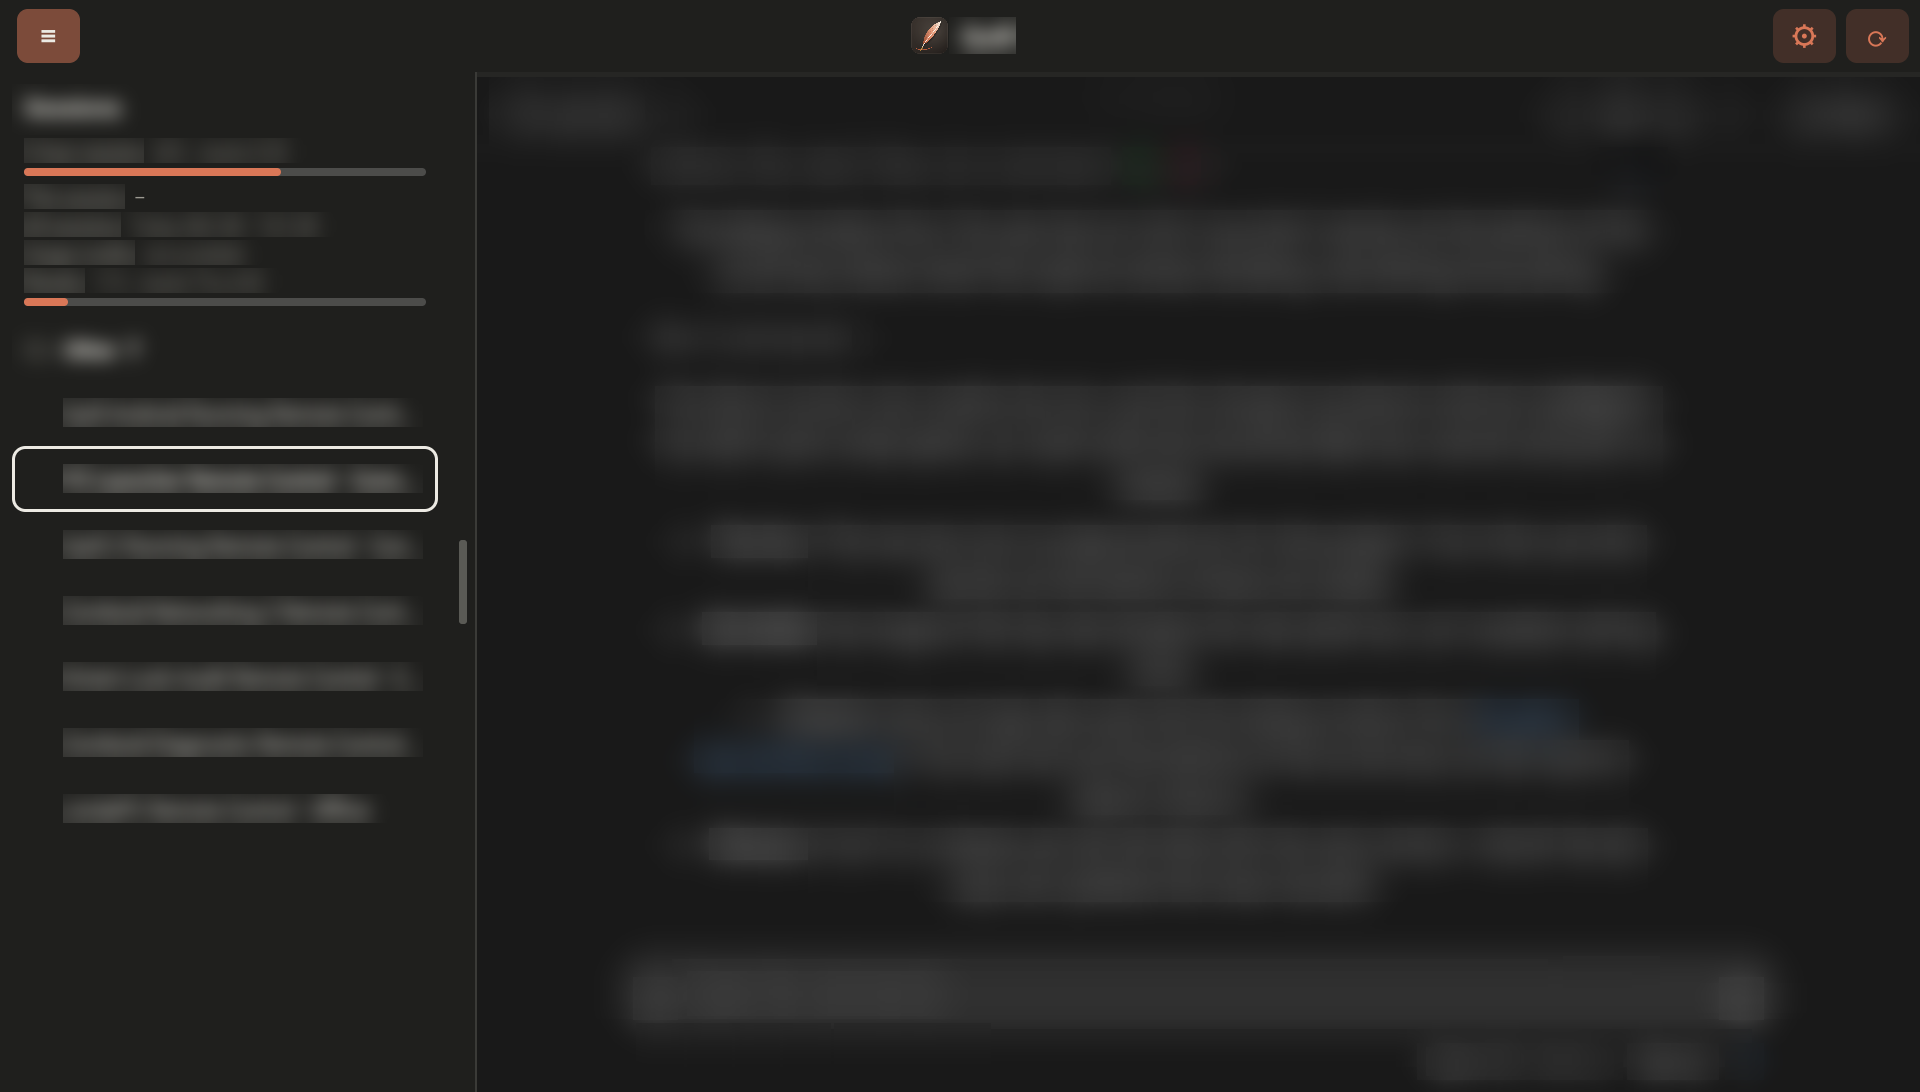
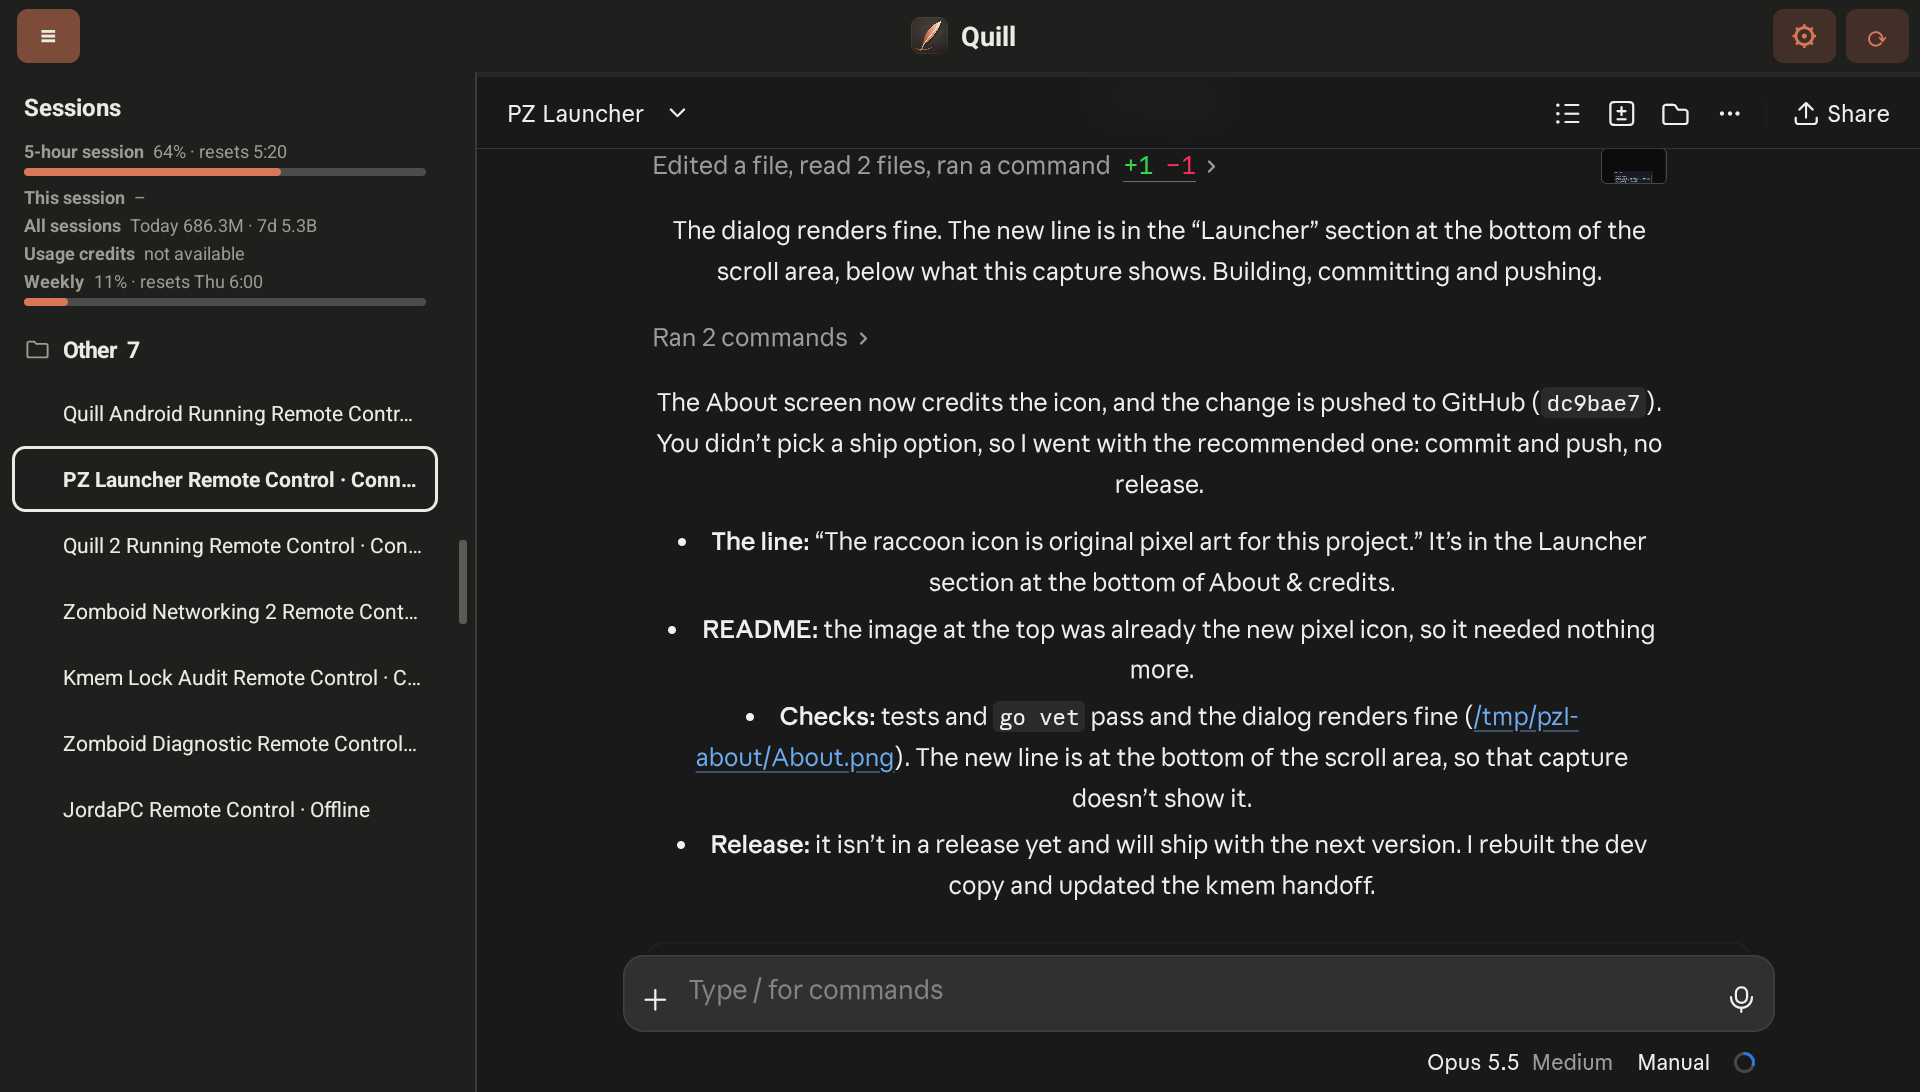
README: tablet screenshot without blur

diff --git a/README.md b/README.md
@@ -4,9 +4,9 @@ An Android companion to [Quill](https://github.com/katachinosekai/quill), the de
 
 Quill for Android lets you control the Claude Code sessions running in Quill on your computer from your phone. It uses Claude Code's own Remote Control: no server of its own, no API key, no extra login. Quill turns Remote Control on for its sessions. This app opens claude.ai/code, where those sessions appear, and gives it Quill's look and organisation.
 
-<p><img src="docs/tablet.png" alt="Quill Android on a tablet: session list with usage on the left, a chat on the right (text blurred)" width="100%"></p>
+<p><img src="docs/tablet.png" alt="Quill Android on a tablet: session list with usage on the left, a chat on the right" width="100%"></p>
 
-*Quill Android on a tablet, paired with Quill Desktop: the session list with usage on the left, the open session on the right. Text is blurred.*
+*Quill Android on a tablet, paired with Quill Desktop: the session list with usage on the left, the open session on the right.*
 
 ## Features
 - Usage at a glance like Quill's strip: 5-hour and weekly limits, this session's tokens and context, today's total (needs Quill 0.1.8+ on the same network).
